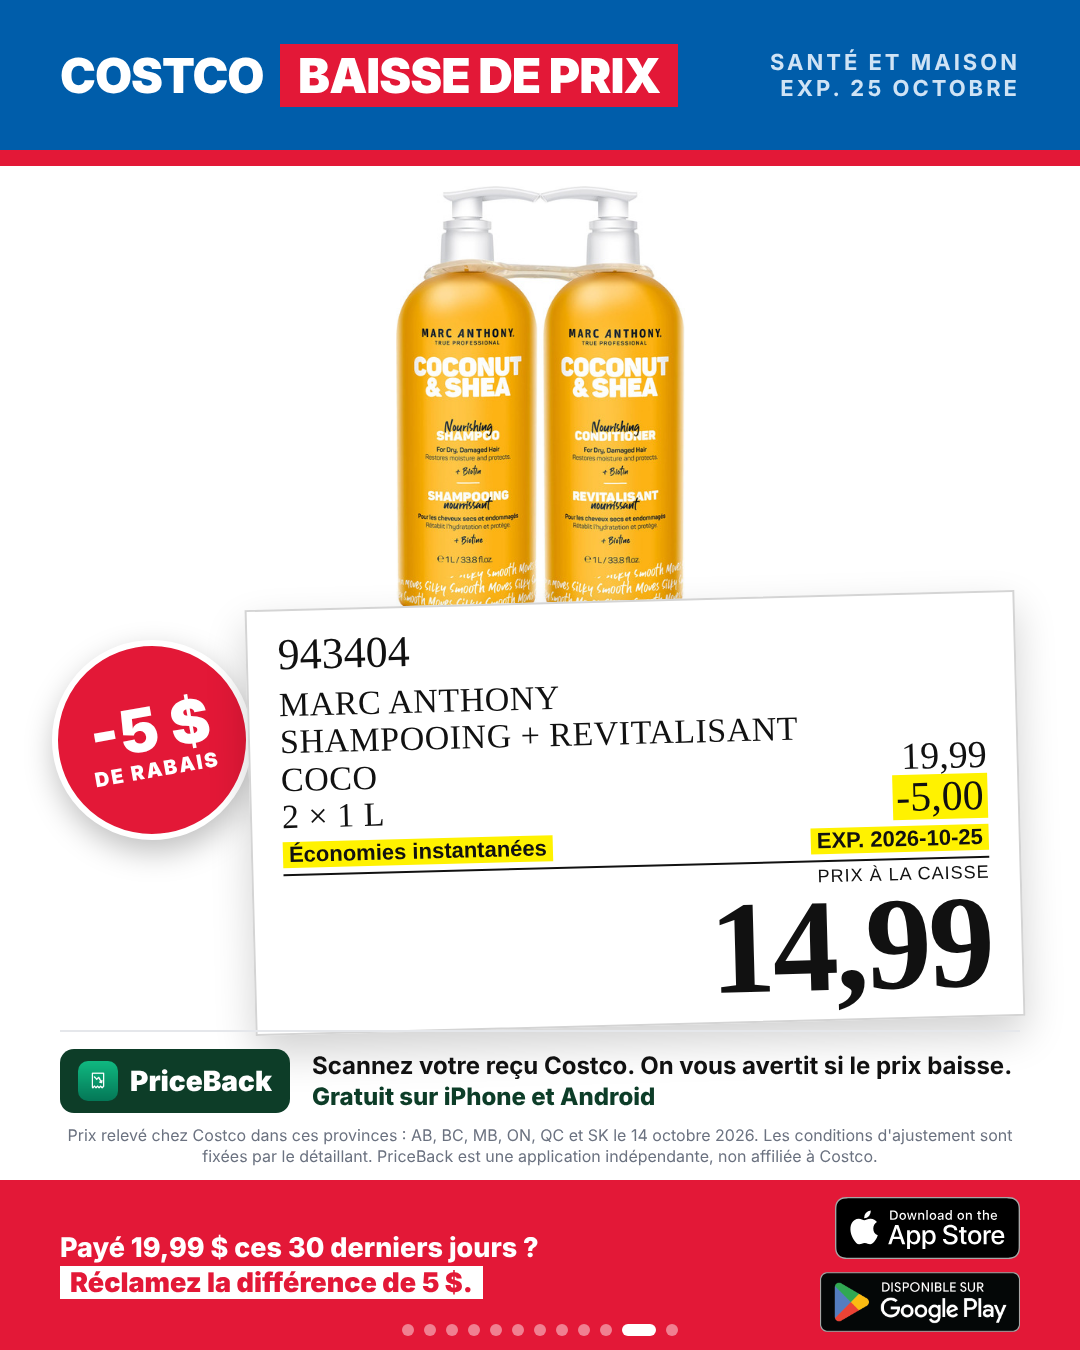
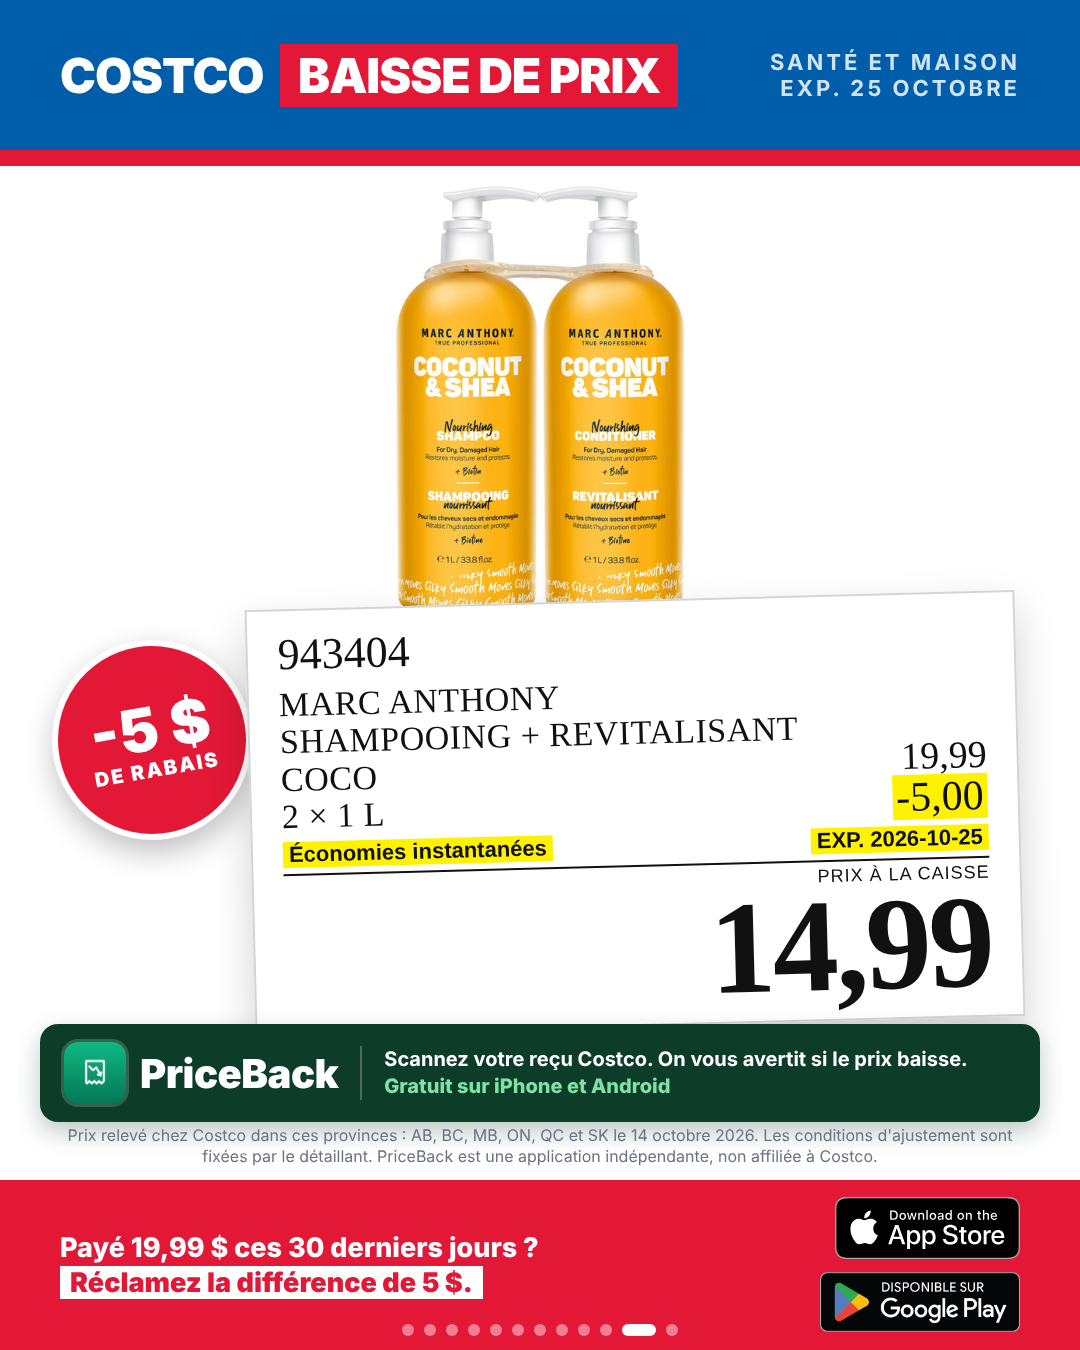
Costco price drops: "Hidden savings" cover tag, bigger PriceBack row
The cover tag now reads Hidden savings / Aubaines cachées instead of the
flyer line, and the download row becomes a dark-green PriceBack panel with
a larger logo on every slide.

Claude-Session: https://claude.ai/code/session_015LFNfgjqFv814Bhy8zPaGt

Changed region(s): [[0.0306, 0.7467, 0.9778, 0.84]]

diff --git a/sm-content/08-costco-price-drops/scenes/render.js b/sm-content/08-costco-price-drops/scenes/render.js
@@ -57,7 +57,7 @@ const L = {
     claimMany: "Claim the difference.",
     pitch: "Scan your Costco receipt. We tell you when the price drops.",
     free: "Free on iPhone and Android",
-    kick: "NOT IN THE FLYER",
+    kick: "HIDDEN SAVINGS",
     head: (n) => `${n} secret Costco\nprice drops`,
     sub: (d) => `Valid until ${d}. Swipe to see them all.`,
     swipe: "SWIPE",
@@ -84,7 +84,7 @@ const L = {
     claimMany: "Réclamez la différence.",
     pitch: "Scannez votre reçu Costco. On vous avertit si le prix baisse.",
     free: "Gratuit sur iPhone et Android",
-    kick: "PAS DANS LA CIRCULAIRE",
+    kick: "AUBAINES CACHÉES",
     head: (n) => `${n} baisses de prix\nsecrètes chez Costco`,
     sub: (d) => `Jusqu'au ${d}. Glissez pour les voir.`,
     swipe: "GLISSEZ",
@@ -292,13 +292,15 @@ body{width:1080px;height:1350px;font-family:"Helvetica Neue",Arial,sans-serif}
 .claim .a b{background:#fff;color:var(--red);padding:0 10px;font-weight:900}
 .pb{display:flex;align-items:center;gap:12px;font-weight:900;font-size:28px;background:#fff;color:#0d3d28;padding:12px 18px;border-radius:14px;white-space:nowrap}
 .pb img{width:40px;height:40px;border-radius:10px}
-.promo{position:absolute;left:60px;right:60px;top:1030px;height:86px;display:flex;align-items:center;gap:22px;border-top:2px solid #e5e7eb;padding-top:14px}
-.promo .pb{background:#0d3d28;color:#fff;flex:none}
-.promo .pitch{font-size:24px;font-weight:700;color:#111;line-height:1.3;white-space:nowrap}
-.promo .pitch span{color:#0d3d28;font-weight:800}
+.promo{position:absolute;left:40px;right:40px;top:1024px;height:98px;display:flex;align-items:center;gap:22px;background:#0d3d28;border-radius:18px;padding:0 24px;box-shadow:0 10px 24px rgba(13,61,40,.28)}
+.promo .pb{background:transparent;color:#fff;flex:none;padding:0;font-size:40px;gap:14px;letter-spacing:-.5px}
+.promo .pb img{width:62px;height:62px;border-radius:14px;box-shadow:0 0 0 3px rgba(255,255,255,.18)}
+.promo .pitch{font-size:22px;font-weight:700;color:#fff;line-height:1.35;white-space:nowrap;border-left:2px solid rgba(255,255,255,.25);padding-left:22px}
+.promo .pitch span{color:#7fe0a8;font-weight:800}
+.fr .promo .pitch{font-size:20px}
 .stores{display:flex;flex-direction:column;gap:12px;align-items:flex-end;flex:none}
 .stores img{height:62px;width:200px;object-fit:contain;object-position:right;display:block}
-.g .promo{top:1040px}
+.g .promo{top:1034px}
 .dots{position:absolute;left:0;right:0;bottom:14px;display:flex;justify-content:center;align-items:center;gap:10px}
 .dots i{width:12px;height:12px;border-radius:6px;background:rgba(255,255,255,.45)}
 .dots i.on{width:34px;background:#fff}

diff --git a/sm-content/08-costco-price-drops/posts/2026-10-17/README.md b/sm-content/08-costco-price-drops/posts/2026-10-17/README.md
@@ -9,7 +9,7 @@ Ten items picked earlier were dropped because they are in the Flipp flyer: Tosti
 Windex, Purex, Bertolli, Brownstone croutons, Honey Nut Cheerios, Maynards, C4 and Air Wick.
 
 Posted as **two carousels**, one per language (Monica, 2026-10-15). Each opens with a hook cover
-(`00-cover.png`: "16 secret Costco price drops" / "11 baisses de prix secrètes chez Costco", the six biggest savings,
+(`00-cover.png`: "Hidden savings" tag, "16 secret Costco price drops" / "11 baisses de prix secrètes chez Costco", the six biggest savings,
 a swipe cue) and every slide carries carousel dots in the red band.
 
 | Carousel | Slides | Items in order (saving) |
